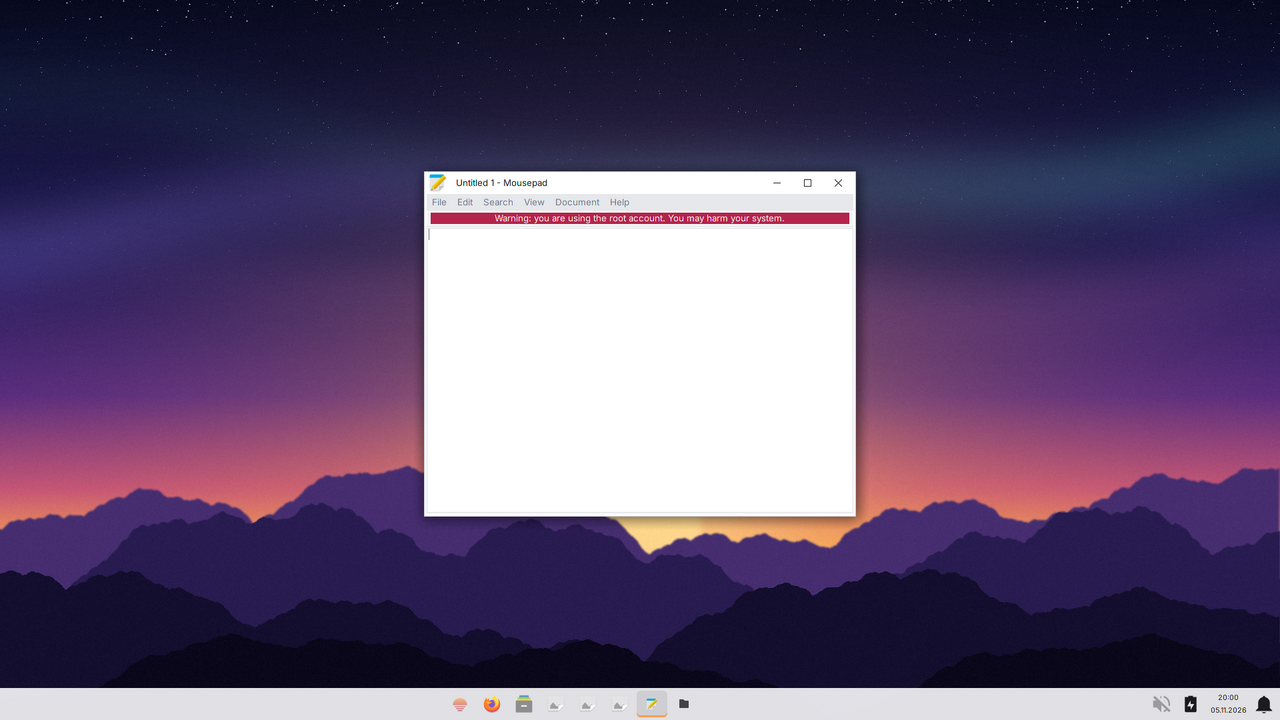
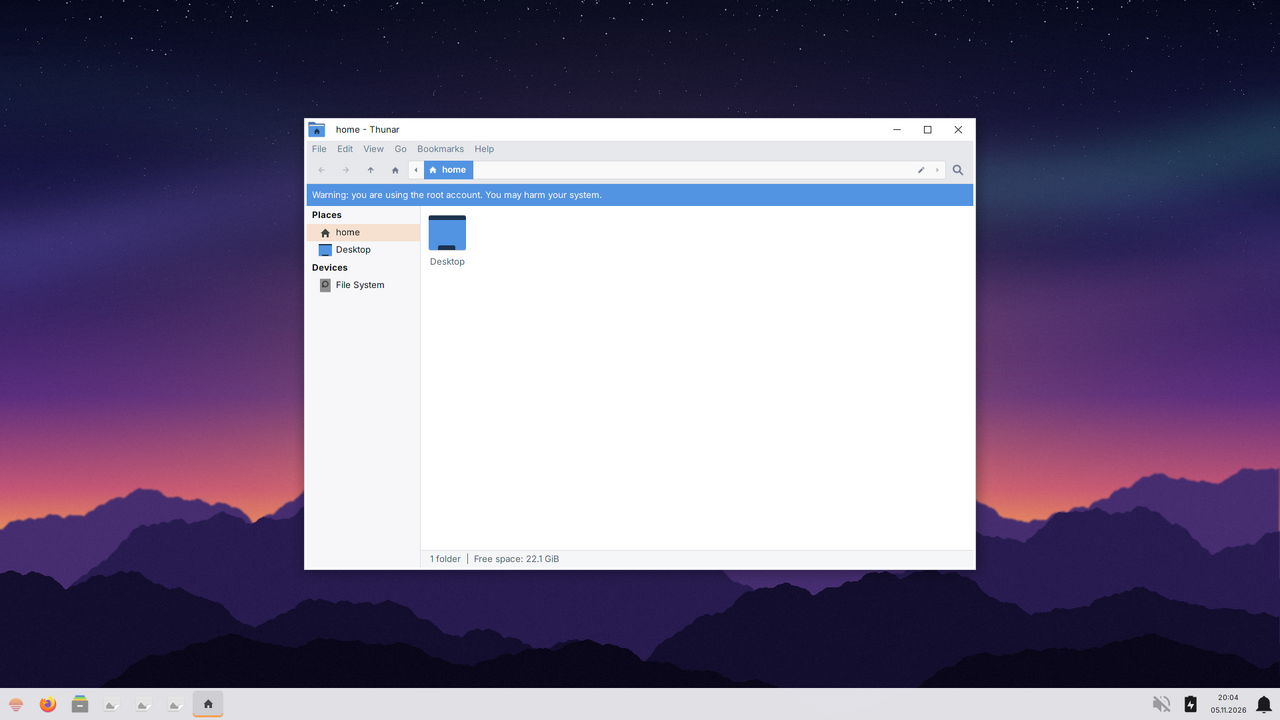
Windows-inspired feel: taskbar on the left, start menu with search and power at the bottom, friendly app names, Explorer-like file manager, desktop context menu

diff --git a/image/config/includes.chroot/usr/share/valolinux/gtk.css b/image/config/includes.chroot/usr/share/valolinux/gtk.css
@@ -21,3 +21,16 @@
   box-shadow: inset 0 -3px 0 0 #F7A054;   /* ValoLinux amber: active app */
 }
 #whiskermenu-button { margin: 4px 2px; }
+
+/* Light sidebars (file manager, dialogs) like the Windows Explorer; Arc makes them dark */
+.sidebar, .sidebar row, .sidebar treeview, .sidebar treeview.view, .thunar .sidebar,
+placessidebar, placessidebar list, placessidebar row {
+  background-color: #f7f7f9;
+  color: #1b1b1d;
+}
+.sidebar treeview.view:selected, placessidebar row:selected,
+.sidebar treeview.view:selected:focus {
+  background-color: rgba(247, 160, 84, 0.25);
+  color: #1b1b1d;
+}
+.sidebar treeview.view header button { color: #6e6a8a; background: transparent; }

diff --git a/docs/design.md b/docs/design.md
@@ -27,8 +27,12 @@ Alle Grafiken erzeugt `tools/make-branding.py` reproduzierbar (fester Zufallswer
 - `usr/share/backgrounds/valolinux-splash.png`: Boot-Menü, 640×480
 - `usr/share/pixmaps/valolinux-logo.png`: Logo 256×256 (Greeter-Benutzerbild)
 
-## Desktop (XFCE, ähnlich Windows 11)
-- Taskleiste unten, hell und leicht transparent, Start und Apps zentriert; aktive App mit Amber-Strich.
+## Desktop (XFCE, von Windows inspiriert)
+Ziel: Kinder kennen Windows, also soll sich alles vertraut anfühlen, ohne Windows zu kopieren.
+- Taskleiste unten, hell und leicht transparent, Startknopf und angeheftete Apps links, Uhr/Systembereich rechts; aktive App mit Amber-Strich.
+- Startmenü: Raster mit angehefteten Apps, Kategorien als Symbolleiste oben, Suche und Ein/Aus unten.
+- Vertraute Namen: Dateien, Editor, Fotos, Task-Manager, Bildschirmfoto, Firefox, Textverarbeitung, Tabellen, Präsentation (Hook `0200-valo-app-names`).
+- Desktop: Papierkorb, Rechtsklick-Menü (Ordner/Dokument erstellen). „Dateien“ mit heller Seitenleiste und Symbolansicht.
 - Fensterdesign „ValoLinux“ (`usr/share/themes/ValoLinux/xfwm4`, erzeugt mit `tools/make-xfwm-theme.py`): weisse Titelleiste, breite flache Knöpfe, Schliessen rot beim Darüberfahren.
 - GTK: Arc (hell), Symbole: Papirus-Light, Schrift: Inter 10. Kleine CSS-Anpassungen in `usr/share/valolinux/gtk.css`.
 - Vorgaben: `etc/xdg/xfce4/` (Panel, Whisker-Menü, Fenster, Schriften), beim Anmelden ergänzt durch `usr/local/libexec/valolinux/session` und `xfce-setup` (Hintergrund pro Bildschirm, Tastenkürzel).
